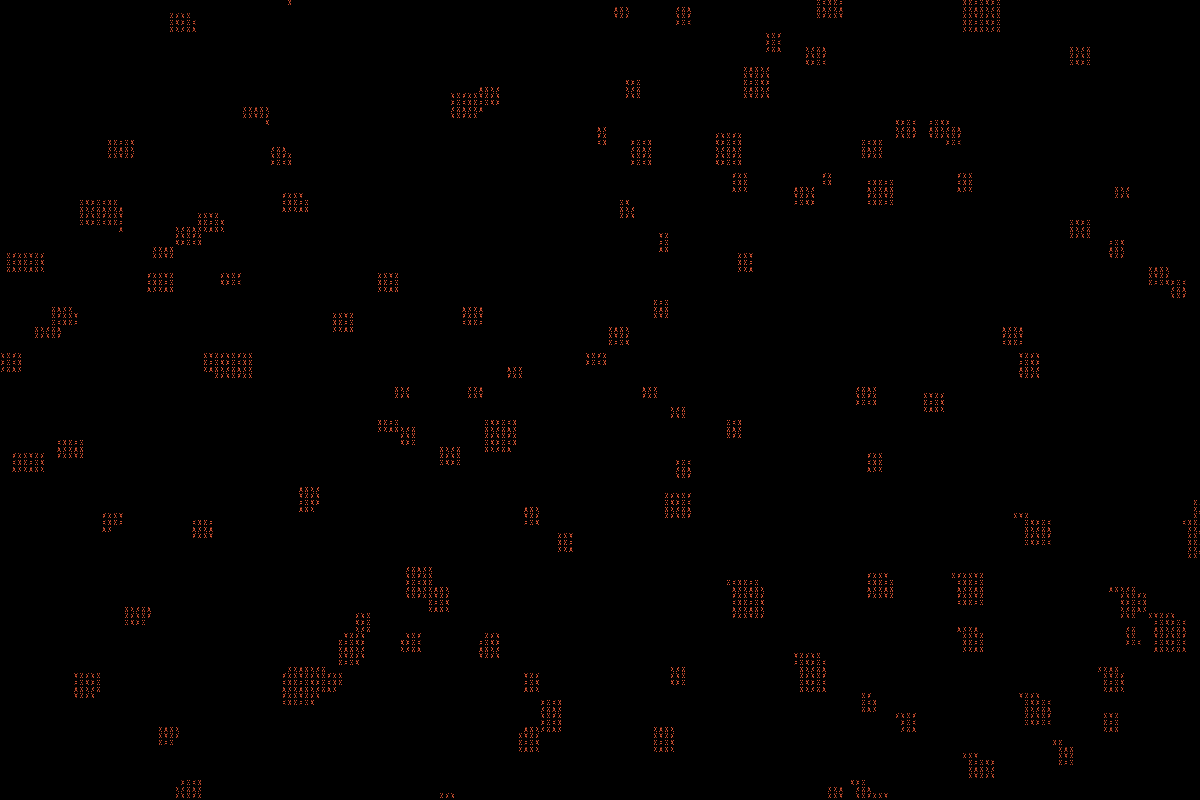
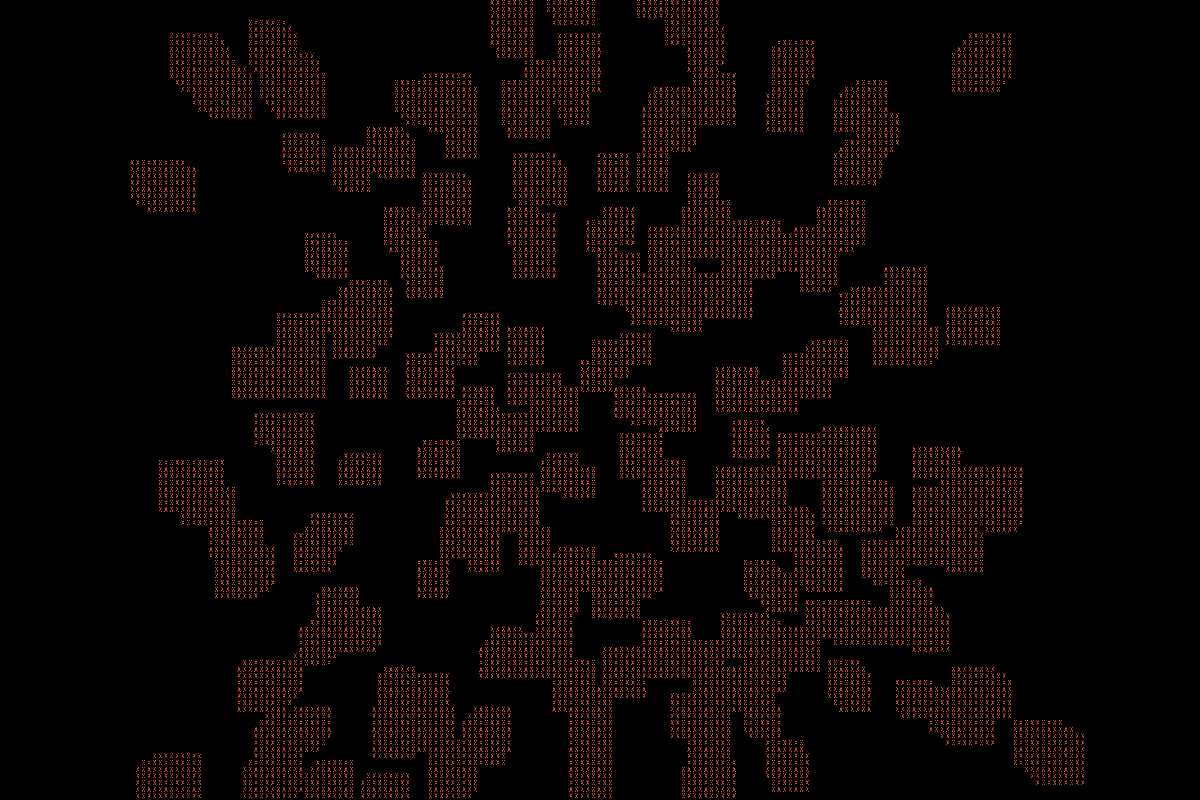
wip(viz): tuning iteration 1 — UNREVIEWED, tuner died at usage limit mid-loop

diff --git a/rlupo-portfolio/components/viz/VizCanvas.tsx b/rlupo-portfolio/components/viz/VizCanvas.tsx
@@ -5,7 +5,7 @@ import React, {
 import { Canvas, useFrame, useThree } from '@react-three/fiber';
 import { EffectComposer } from '@react-three/postprocessing';
 import {
-  BoxGeometry, Color, InstancedMesh, MeshStandardMaterial,
+  BoxGeometry, BufferAttribute, Color, DoubleSide, InstancedMesh, MeshStandardMaterial,
   Object3D, OctahedronGeometry, PlaneGeometry, SphereGeometry,
   Vector3 as ThreeVector3,
 } from 'three';
@@ -107,17 +107,32 @@ function VizScene({ spec }: { spec: SceneSpec }) {
 
   const geometry = useMemo(() => {
     switch (spec.geometryType) {
-      case 'box':         return new BoxGeometry(0.12, 0.12, 0.12);
+      case 'box':         return new BoxGeometry(0.22, 0.22, 0.22); // enlarged: 0.12 was sub-cell at 9px
       case 'sphere':      return new SphereGeometry(0.06, 4, 4);
       case 'plane':       return new PlaneGeometry(8, 8, spec.planeSegments ?? 40, spec.planeSegments ?? 40);
-      case 'octahedron':  return new OctahedronGeometry(0.5 + spec.density * 0.2);
+      // detail=1 → 32 faces, recognizable octahedral form, ~4× the cell coverage of detail=0
+      case 'octahedron':  return new OctahedronGeometry(1.5, 1);
     }
   }, [spec.geometryType, spec.planeSegments, spec.density]);
 
-  const material = useMemo(
-    () => new MeshStandardMaterial({ color: spec.tint, roughness: 0.2, metalness: 0, wireframe: spec.archetype === 'wireframe' }),
-    [spec.tint, spec.archetype],
-  );
+  const material = useMemo(() => {
+    // Emissive boosts shadow-face rawLum above the 0.06 glyph floor.
+    // With ambient=0.3 + dir=0.6, emissive headroom before rawLum hits 0.79:
+    //   #A6A77E (L=0.636): max emissive ≈ 0.34 → use 0.1 (wireframe wants face contrast)
+    //   #E85D3A (L=0.512): max emissive ≈ 0.64 → use 0.25
+    //   #5A9090 (L=0.502): max emissive ≈ 0.67 → use 0.25
+    const emissiveIntensity = spec.archetype === 'wireframe' ? 0.1
+      : spec.archetype === 'wavefield'    ? 0.15
+      : 0.25; // lattice + particleflow
+    return new MeshStandardMaterial({
+      color: spec.tint,
+      emissive: new Color(spec.tint),
+      emissiveIntensity,
+      roughness: 0.85,
+      metalness: 0,
+      side: spec.archetype === 'wavefield' ? DoubleSide : undefined,
+    });
+  }, [spec.tint, spec.archetype]);
 
   useEffect(() => {
     return () => {
@@ -140,7 +155,11 @@ function VizScene({ spec }: { spec: SceneSpec }) {
       };
     })();
     const buf = new Float32Array(spec.instanceCount * 3);
-    const spread = spec.archetype === 'particleflow' ? 5 : spec.spacing * (spec.gridSize ?? 4);
+    // Wireframe: 0 spread → single centered instance. Lattice: cap at 4.5 so
+    // instances stay within the 7×4.66 unit viewport (density=1 gave spread=8.4 → off-screen).
+    const spread = spec.archetype === 'particleflow' ? 5
+      : spec.archetype === 'wireframe'    ? 0
+      : Math.min(spec.spacing * (spec.gridSize ?? 4), 4.5);
     for (let i = 0; i < spec.instanceCount; i++) {
       buf[i * 3]     = (rng() - 0.5) * spread;
       buf[i * 3 + 1] = (rng() - 0.5) * spread;
@@ -155,9 +174,32 @@ function VizScene({ spec }: { spec: SceneSpec }) {
 
   useFrame((_, _delta) => {
     const mesh = meshRef.current;
-    const buf = initialPositions.current;
-    if (!mesh || !buf || spec.archetype === 'wavefield') return;
     const t = performance.now() * 0.001 * spec.speed;
+
+    // Wavefield: displace plane vertices in Z each frame so normals vary and
+    // directional lighting creates visible wave-terrain bands.
+    if (spec.archetype === 'wavefield') {
+      const geo = mesh?.geometry;
+      if (!geo) return;
+      const pos = geo.attributes.position as BufferAttribute;
+      const freq = spec.waveFreq ?? 1.0;
+      const amp  = (spec.waveAmp ?? 1.2) * 0.45;
+      const phase = spec.wavePhase ?? 0;
+      for (let i = 0; i < pos.count; i++) {
+        const x = pos.getX(i);
+        const y = pos.getY(i);
+        pos.setZ(i,
+          Math.sin(x * freq + t + phase) * amp +
+          Math.sin(y * freq * 0.7 + t * 1.3 + phase * 0.5) * amp * 0.6,
+        );
+      }
+      pos.needsUpdate = true;
+      geo.computeVertexNormals();
+      return;
+    }
+
+    const buf = initialPositions.current;
+    if (!mesh || !buf) return;
     for (let i = 0; i < spec.instanceCount; i++) {
       dummy.position.set(buf[i * 3], buf[i * 3 + 1], buf[i * 3 + 2]);
       dummy.position.y += Math.sin(t + i * 0.31) * spec.animationAmplitude;
@@ -171,8 +213,12 @@ function VizScene({ spec }: { spec: SceneSpec }) {
   return (
     <>
       <color attach="background" args={['#0a0a0a']} />
+      {/* ambient=0.3 + dir=0.6 keeps scene rawLum in [0.15,0.75] across all tints
+          under invert=true (glyph zone [0.06,0.79]). Higher ambient blew out
+          lit faces → bfg→0 → charValue≈0.05 → near-invisible glyphs. */}
       <ambientLight intensity={0.3} />
-      <directionalLight position={[2, 4, 5]} intensity={3} />
+      <directionalLight position={[2, 4, 5]} intensity={0.6} />
+      <directionalLight position={[-3, -1, 3]} intensity={0.15} />
       <instancedMesh ref={meshRef} args={[geometry, material, spec.instanceCount]} />
     </>
   );
@@ -247,7 +293,8 @@ export const VizCanvas: React.FC<VizCanvasProps> = ({
       >
         <VizScene spec={spec} />
         <ComposerMount effectRef={effectRef} tint={params.tint}
-          waveAmp={spec.waveAmp} waveFreq={spec.waveFreq} wavePhase={spec.wavePhase} />
+          waveAmp={params.archetype === 'wavefield' ? 0 : spec.waveAmp}
+          waveFreq={spec.waveFreq} wavePhase={spec.wavePhase} />
         <VelocityBridge effectRef={effectRef} velocityRef={velocityRef} />
       </Canvas>
     </div>

diff --git a/rlupo-portfolio/components/viz/scenes.ts b/rlupo-portfolio/components/viz/scenes.ts
@@ -36,7 +36,7 @@ export function buildLatticeSpec(p: VizParams): SceneSpec {
 export function buildWavefieldSpec(p: VizParams): SceneSpec {
   const rng = mulberry32(p.seed);
   const waveFreq  = 0.8 + rng() * 0.8;          // 0.8–1.6
-  const waveAmp   = 0.6 + rng() * 0.6;           // 0.6–1.2
+  const waveAmp   = 1.2 + rng() * 1.0;           // 1.2–2.2 (raised for visible vertex displacement)
   const wavePhase = rng() * 2 * Math.PI;         // 0–2π
   return {
     archetype: 'wavefield', seed: p.seed, density: p.density, speed: p.speed, tint: p.tint,
@@ -62,10 +62,10 @@ export function buildParticleflowSpec(p: VizParams): SceneSpec {
 export function buildWireframeSpec(p: VizParams): SceneSpec {
   return {
     archetype: 'wireframe', seed: p.seed, density: p.density, speed: p.speed, tint: p.tint,
-    instanceCount: Math.max(1, Math.round(3 * p.density)),
+    instanceCount: 1,   // single centered octahedron; spread=0 in VizCanvas
     geometryType: 'octahedron',
     animationAmplitude: 0.5 * p.speed,
-    spacing: 2.5,
+    spacing: 0,
   };
 }
 
